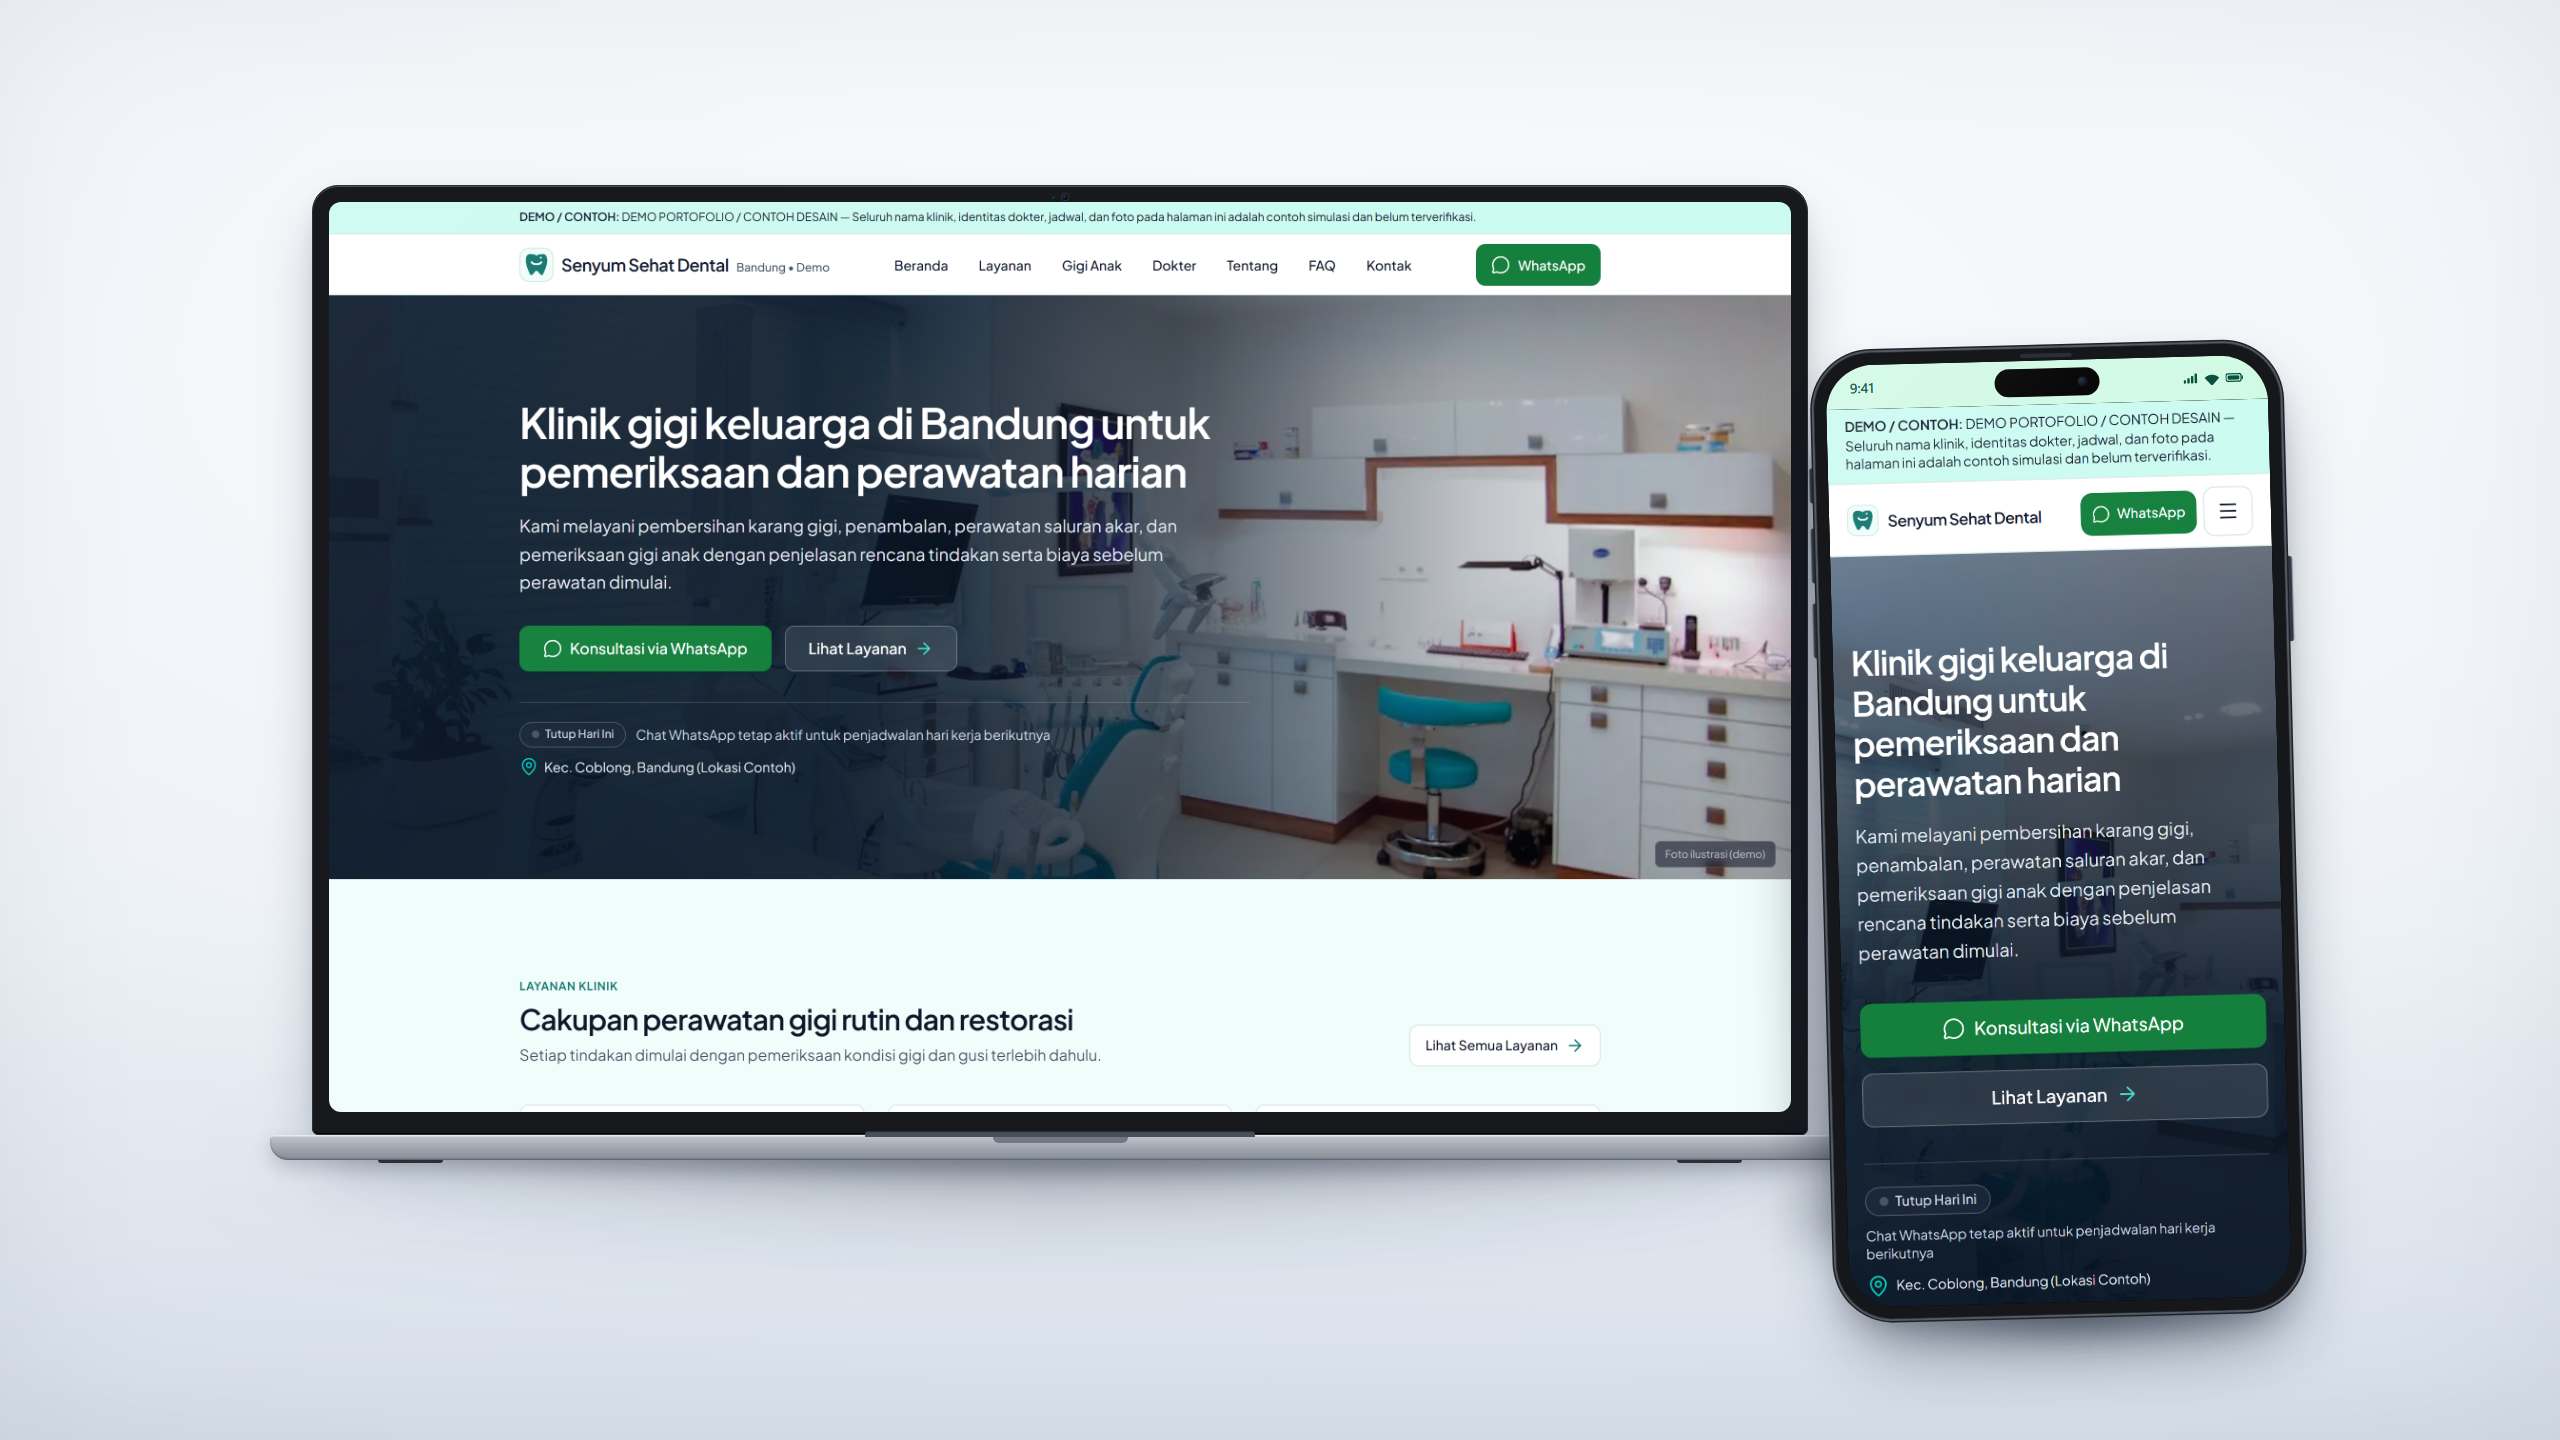
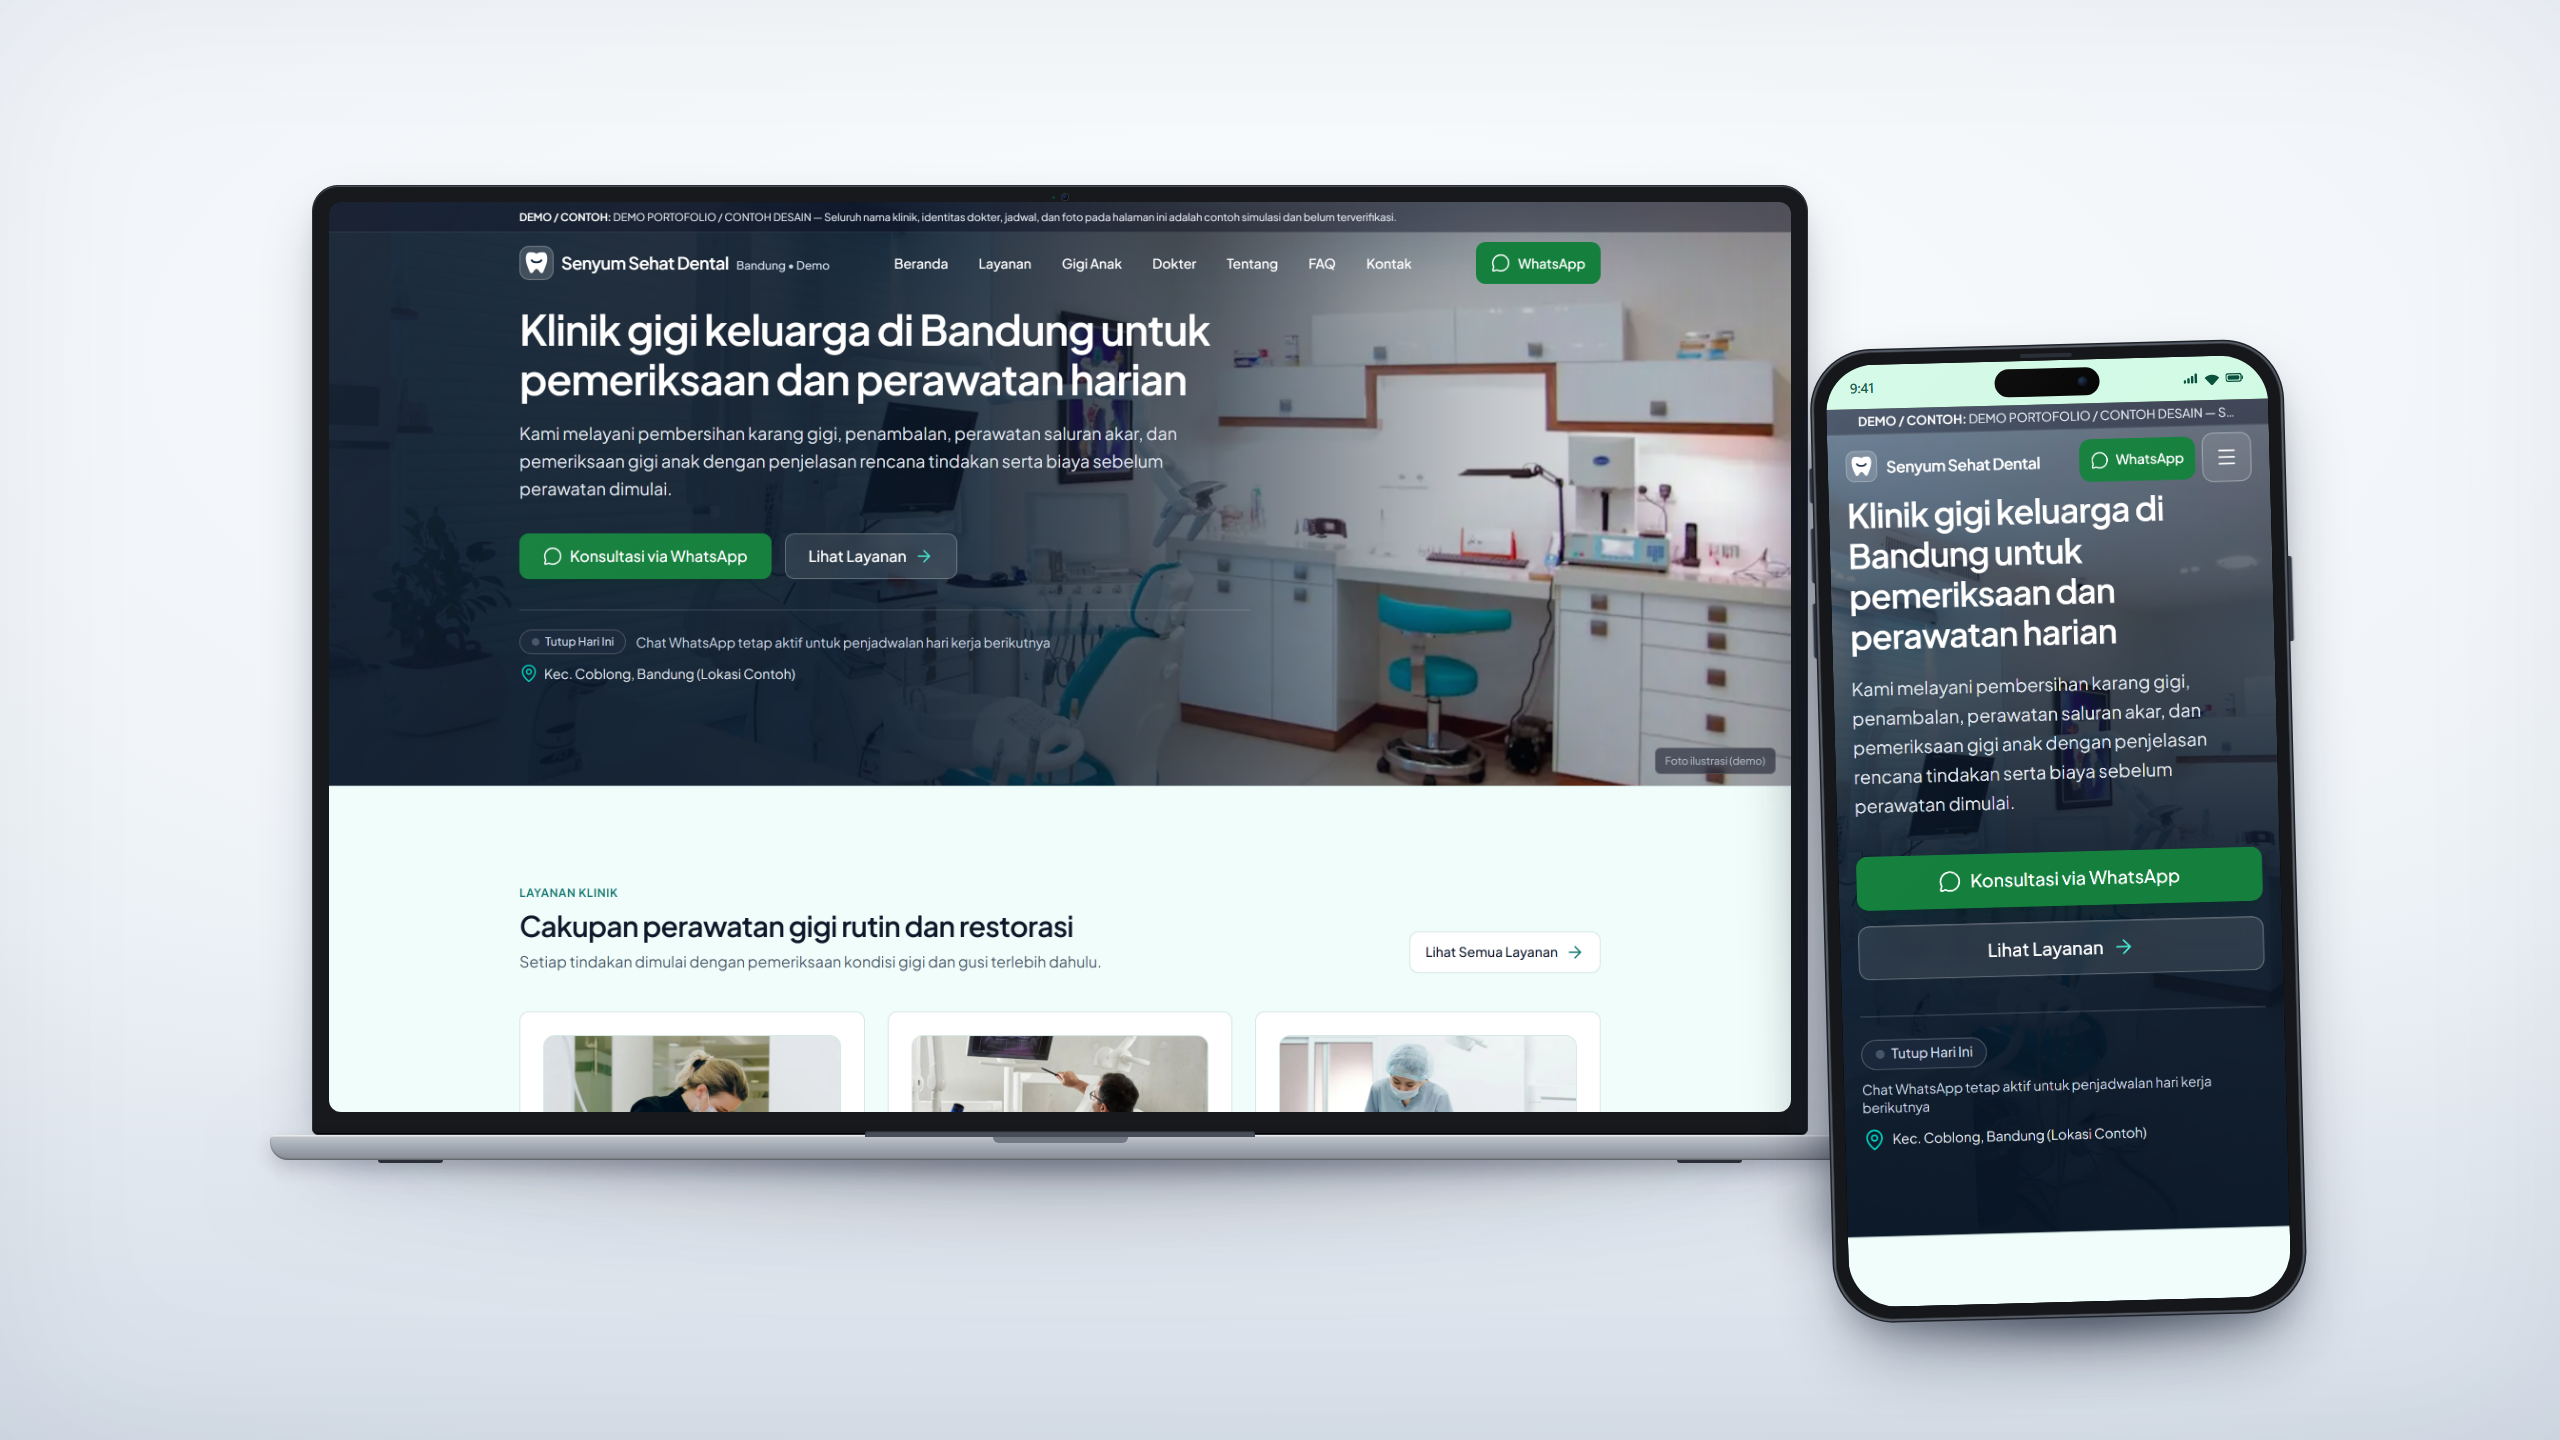
feat: implementasikan Transparent Header + Scroll-Based Theme Transition pada Navbar

Changed region(s): [[0.125, 0.125, 0.9062, 0.9062], [0.5625, 0.6562, 0.5938, 0.6875]]

diff --git a/src/components/layout/Header.tsx b/src/components/layout/Header.tsx
@@ -1,26 +1,42 @@
+"use client";
+
+import { useEffect, useState } from "react";
 import Link from "next/link";
 import { MessageCircle } from "lucide-react";
 import { siteConfig } from "@/content/site";
 import { buildWhatsAppUrl } from "@/lib/whatsapp";
 import { Container } from "@/components/ui/Container";
 import { DentalLogo } from "@/components/ui/Logo";
-import { MobileMenu, type NavItem } from "./MobileMenu";
-
-export const mainNavItems: NavItem[] = [
-  { label: "Beranda", href: "/" },
-  { label: "Layanan", href: "/layanan" },
-  { label: "Gigi Anak", href: "/gigi-anak" },
-  { label: "Dokter", href: "/dokter" },
-  { label: "Tentang", href: "/tentang" },
-  { label: "FAQ", href: "/faq" },
-  { label: "Kontak", href: "/kontak" },
-];
+import { mainNavItems } from "@/content/navigation";
+import { MobileMenu } from "./MobileMenu";
 
 export function Header() {
+  const [isScrolled, setIsScrolled] = useState(false);
   const whatsappUrl = buildWhatsAppUrl();
 
+  useEffect(() => {
+    const handleScroll = () => {
+      const scrolled = window.scrollY > 50;
+      setIsScrolled(scrolled);
+    };
+
+    // Sinkronisasi status scroll saat komponen pertama kali dimount
+    handleScroll();
+
+    window.addEventListener("scroll", handleScroll, { passive: true });
+    return () => {
+      window.removeEventListener("scroll", handleScroll);
+    };
+  }, []);
+
   return (
-    <header className="sticky top-0 z-40 h-16 border-b border-border bg-background">
+    <header
+      className={`fixed top-0 left-0 right-0 z-40 transition-all duration-300 ease-in-out ${
+        isScrolled
+          ? "border-b border-border/80 bg-white/95 shadow-xs backdrop-blur-md"
+          : "border-b border-transparent bg-transparent shadow-none"
+      }`}
+    >
       <a
         href="#main-content"
         className="sr-only focus:not-sr-only focus:fixed focus:top-3 focus:left-3 focus:z-50 focus:rounded-[10px] focus:bg-accent focus:px-4 focus:py-2.5 focus:text-sm focus:font-medium focus:text-background"
@@ -28,18 +44,50 @@ export function Header() {
         Lompat ke konten utama
       </a>
 
-      <Container className="flex h-16 items-center justify-between gap-2 sm:gap-3">
+      {/* Banner Demo Portofolio (transparan saat di atas, collapse saat di-scroll) */}
+      {siteConfig.isDemo && (
+        <div
+          className={`overflow-hidden transition-all duration-300 ease-in-out ${
+            isScrolled
+              ? "max-h-0 opacity-0 pointer-events-none"
+              : "max-h-20 opacity-100"
+          }`}
+        >
+          <div className="border-b border-white/10 bg-slate-950/40 px-3 py-1 text-xs text-slate-200 backdrop-blur-xs sm:py-2 sm:px-0">
+            <Container className="flex items-center justify-between gap-4">
+              <p className="truncate text-[11px] leading-tight sm:whitespace-normal sm:leading-snug">
+                <strong className="font-semibold text-white">DEMO / CONTOH:</strong>{" "}
+                {siteConfig.demoNotice}
+              </p>
+            </Container>
+          </div>
+        </div>
+      )}
+
+      {/* Navbar Utama */}
+      <Container className="flex h-14 items-center justify-between gap-2 sm:h-16 sm:gap-3">
         {/* Logo SVG & Wordmark Teks */}
         <Link
           href="/"
-          className="interactive-transition flex min-w-0 shrink items-center gap-2 py-1 text-text hover:opacity-90"
+          className="interactive-transition flex min-w-0 shrink items-center gap-2 py-1 hover:opacity-90"
         >
-          <DentalLogo className="h-7 w-7 shrink-0 sm:h-9 sm:w-9" />
+          <DentalLogo
+            variant={isScrolled ? "default" : "white"}
+            className="h-7 w-7 shrink-0 sm:h-9 sm:w-9"
+          />
           <div className="flex min-w-0 items-baseline gap-1.5 sm:gap-2">
-            <span className="truncate text-sm font-semibold tracking-tight text-text sm:text-lg">
+            <span
+              className={`truncate text-sm font-semibold tracking-tight transition-colors duration-300 sm:text-lg ${
+                isScrolled ? "text-text" : "text-white"
+              }`}
+            >
               {siteConfig.shortName}
             </span>
-            <span className="hidden text-xs font-medium text-text-muted sm:inline">
+            <span
+              className={`hidden text-xs font-medium transition-colors duration-300 sm:inline ${
+                isScrolled ? "text-text-muted" : "text-slate-300"
+              }`}
+            >
               {siteConfig.city} {siteConfig.isDemo ? "• Demo" : ""}
             </span>
           </div>
@@ -52,7 +100,11 @@ export function Header() {
               <li key={item.href}>
                 <Link
                   href={item.href}
-                  className="interactive-transition inline-flex min-h-[44px] items-center rounded-[10px] px-3 py-2 text-sm font-medium text-text hover:bg-tint hover:text-accent"
+                  className={`interactive-transition inline-flex min-h-[44px] items-center rounded-[10px] px-3 py-2 text-sm font-medium transition-colors duration-300 ${
+                    isScrolled
+                      ? "text-text hover:bg-tint hover:text-accent"
+                      : "text-white hover:bg-white/15 hover:text-white"
+                  }`}
                 >
                   {item.label}
                 </Link>
@@ -74,7 +126,7 @@ export function Header() {
             <span className="text-xs sm:text-sm">WhatsApp</span>
           </a>
 
-          <MobileMenu navItems={mainNavItems} />
+          <MobileMenu navItems={mainNavItems} isScrolled={isScrolled} />
         </div>
       </Container>
     </header>

diff --git a/src/components/ui/Logo.tsx b/src/components/ui/Logo.tsx
@@ -1,15 +1,22 @@
 import type { SVGProps } from "react";
 
+export interface DentalLogoProps extends SVGProps<SVGSVGElement> {
+  variant?: "default" | "white";
+}
+
 export function DentalLogo({
+  variant = "default",
   className = "h-9 w-9",
   ...props
-}: SVGProps<SVGSVGElement>) {
+}: DentalLogoProps) {
+  const isWhite = variant === "white";
+
   return (
     <svg
       viewBox="0 0 32 32"
       fill="none"
       xmlns="http://www.w3.org/2000/svg"
-      className={className}
+      className={`${className} transition-all duration-300`}
       aria-hidden="true"
       {...props}
     >
@@ -20,28 +27,32 @@ export function DentalLogo({
         width="31"
         height="31"
         rx="8.5"
-        fill="var(--tint)"
-        stroke="var(--border)"
+        fill={isWhite ? "rgba(255, 255, 255, 0.16)" : "var(--tint)"}
+        stroke={isWhite ? "rgba(255, 255, 255, 0.3)" : "var(--border)"}
+        className="transition-colors duration-300"
       />
 
       {/* Siluet Gigi Anatomis & Bersahabat */}
       <path
         d="M16 7.5C14.5 6 12 6 10 6C7 6 6 8.5 6 12C6 15.5 7.5 19.5 9.8 24.5C10.3 25.6 11.8 25.8 12.6 24.8C13.6 23.5 14.8 21.5 16 21.5C17.2 21.5 18.4 23.5 19.4 24.8C20.2 25.8 21.7 25.6 22.2 24.5C24.5 19.5 26 15.5 26 12C26 8.5 25 6 22 6C20 6 17.5 6 16 7.5Z"
-        fill="var(--accent)"
+        fill={isWhite ? "#FFFFFF" : "var(--accent)"}
+        className="transition-colors duration-300"
       />
 
-      {/* Garis Senyum Putih di Bagian Depan Gigi */}
+      {/* Garis Senyum di Bagian Depan Gigi */}
       <path
         d="M11.5 13.5C13 16 19 16 20.5 13.5"
-        stroke="#FFFFFF"
+        stroke={isWhite ? "#0B1E36" : "#FFFFFF"}
         strokeWidth="1.75"
         strokeLinecap="round"
+        className="transition-colors duration-300"
       />
 
-      {/* Kilau Bintang / Sparkle Putih (Simbol Gigi Bersih & Sehat) */}
+      {/* Kilau Bintang / Sparkle (Simbol Gigi Bersih & Sehat) */}
       <path
         d="M20 7.5C20 8.5 20.8 9.2 21.8 9.2C20.8 9.2 20 9.9 20 10.9C20 9.9 19.2 9.2 18.2 9.2C19.2 9.2 20 8.5 20 7.5Z"
-        fill="#FFFFFF"
+        fill={isWhite ? "rgba(255, 255, 255, 0.95)" : "#FFFFFF"}
+        className="transition-colors duration-300"
       />
     </svg>
   );

diff --git a/src/components/layout/MobileMenu.tsx b/src/components/layout/MobileMenu.tsx
@@ -14,9 +14,10 @@ export interface NavItem {
 
 interface MobileMenuProps {
   navItems: NavItem[];
+  isScrolled?: boolean;
 }
 
-export function MobileMenu({ navItems }: MobileMenuProps) {
+export function MobileMenu({ navItems, isScrolled = true }: MobileMenuProps) {
   const [isOpen, setIsOpen] = useState(false);
   const pathname = usePathname();
   const triggerRef = useRef<HTMLButtonElement>(null);
@@ -55,7 +56,11 @@ export function MobileMenu({ navItems }: MobileMenuProps) {
         aria-controls="mobile-nav-drawer"
         aria-label={isOpen ? "Tutup menu navigasi" : "Buka menu navigasi"}
         onClick={() => setIsOpen((prev) => !prev)}
-        className="interactive-transition inline-flex min-h-[44px] min-w-[44px] items-center justify-center rounded-[10px] border border-border bg-background p-2 text-text hover:bg-tint"
+        className={`interactive-transition inline-flex min-h-[44px] min-w-[44px] items-center justify-center rounded-[10px] p-2 transition-all duration-300 ${
+          isScrolled
+            ? "border border-border bg-background text-text hover:bg-tint"
+            : "border border-white/30 bg-white/10 text-white hover:bg-white/20"
+        }`}
       >
         {isOpen ? (
           <X className="h-5 w-5" strokeWidth={1.75} aria-hidden="true" />

diff --git a/src/content/navigation.ts b/src/content/navigation.ts
@@ -1,0 +1,14 @@
+export interface NavItem {
+  label: string;
+  href: string;
+}
+
+export const mainNavItems: NavItem[] = [
+  { label: "Beranda", href: "/" },
+  { label: "Layanan", href: "/layanan" },
+  { label: "Gigi Anak", href: "/gigi-anak" },
+  { label: "Dokter", href: "/dokter" },
+  { label: "Tentang", href: "/tentang" },
+  { label: "FAQ", href: "/faq" },
+  { label: "Kontak", href: "/kontak" },
+];

diff --git a/src/components/layout/Footer.tsx b/src/components/layout/Footer.tsx
@@ -3,7 +3,7 @@ import { MessageCircle } from "lucide-react";
 import { siteConfig } from "@/content/site";
 import { buildWhatsAppUrl } from "@/lib/whatsapp";
 import { Container } from "@/components/ui/Container";
-import { mainNavItems } from "./Header";
+import { mainNavItems } from "@/content/navigation";
 
 export function Footer() {
   const whatsappUrl = buildWhatsAppUrl();

diff --git a/src/app/layout.tsx b/src/app/layout.tsx
@@ -46,7 +46,6 @@ export default function RootLayout({
           type="application/ld+json"
           dangerouslySetInnerHTML={{ __html: JSON.stringify(dentistJsonLd) }}
         />
-        <DemoBanner />
         <Header />
         <main id="main-content" className="flex-1">
           {children}
